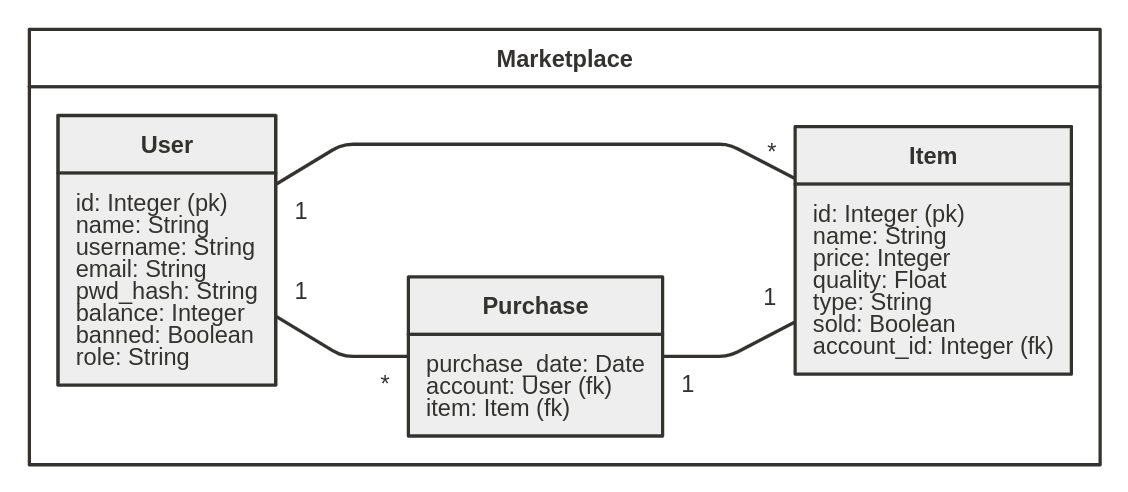
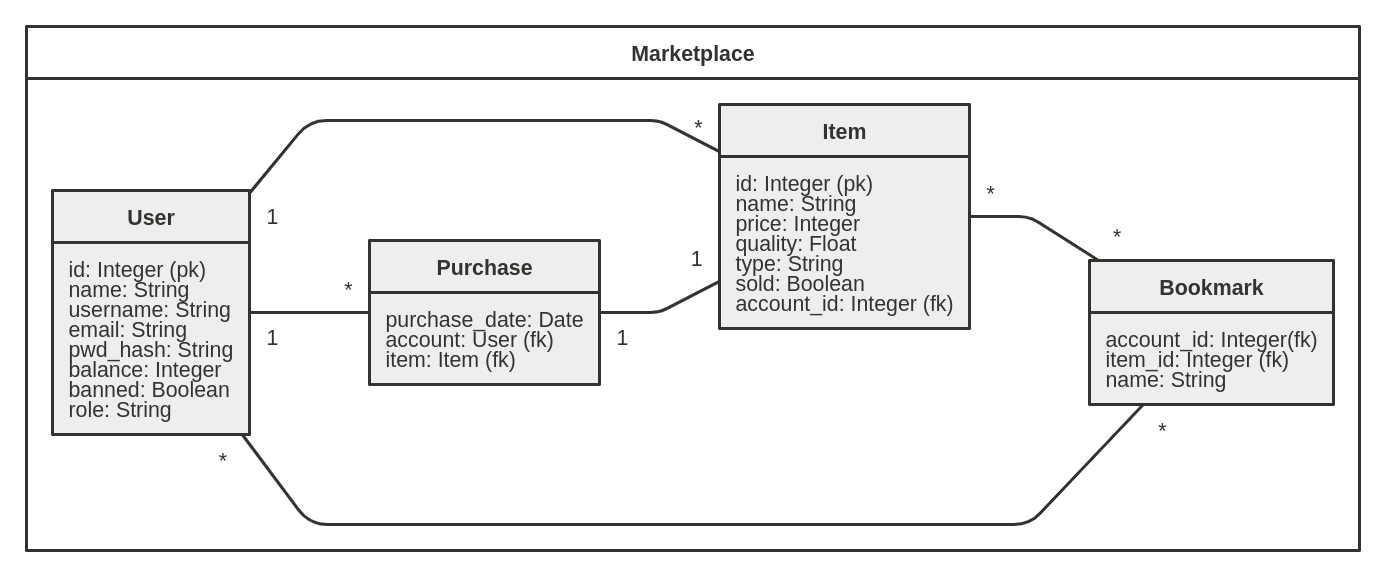
update documentation

Changed region(s): [[0.0, 0.0305, 0.9929, 0.9756], [0.8067, 0.3049, 0.8688, 0.3354], [0.7447, 0.8232, 0.7757, 0.8841]]

diff --git a/documentation/documentation.md b/documentation/documentation.md
@@ -12,6 +12,9 @@ A registered user can:
 > * buy items
 > * modify the price of users own products that are on sale
 > * add balance to account
+> * bookmark items
+> * remove bookmarks
+> * name bookmarks
 
 ## Database diagram
 ![diagram](images/diagram2.png)
@@ -19,40 +22,68 @@ A registered user can:
 ## CREATE TABLE:
 ### Item:
 ```sql
-CREATE TABLE Item (
-    id INTEGER NOT NULL PRIMARY KEY,
-    name VARCHAR(144),
-    price INTEGER,
-    quality FLOAT,
-    item_type VARCHAR(144),
-    sold BOOLEAN,
-    account_id INTEGER,
-    FOREIGN KEY (account_id) REFERENCES Account(account_id)
+CREATE TABLE item (
+        id INTEGER NOT NULL, 
+        date_created DATETIME, 
+        date_modified DATETIME, 
+        name VARCHAR(144) NOT NULL, 
+        price INTEGER NOT NULL, 
+        quality FLOAT NOT NULL, 
+        item_type VARCHAR(144) NOT NULL, 
+        sold BOOLEAN NOT NULL, 
+        account_id INTEGER NOT NULL, 
+        PRIMARY KEY (id), 
+        CHECK (sold IN (0, 1)), 
+        FOREIGN KEY(account_id) REFERENCES account (id)
 );
 ```
-Item has a column sold, because every item is purchased only once and it would be unnecessary to go through all purchases when displaying an item
+* Item has a column sold, because every item is purchased only once and it would be unnecessary to go through all purchases when displaying an item
+
+* Items type column is indexed so searching items by name and type will be significantly faster
 
 ### Account:
 ```sql
-CREATE TABLE Account (
-    id INTEGER NOT NULL PRIMARY KEY,
-    name VARCHAR(144),
-    username VARCHAR(144),
-    email VARCHAR(144),
-    pwd_hash VARCHAR(144),
-    balance INTEGER,
-    banned BOOLEAN,
-    role VARCHAR(144)
+CREATE TABLE account (
+        id INTEGER NOT NULL, 
+        date_created DATETIME, 
+        date_modified DATETIME, 
+        name VARCHAR(144) NOT NULL, 
+        username VARCHAR(144) NOT NULL, 
+        email VARCHAR(144) NOT NULL, 
+        pwd_hash VARCHAR(144) NOT NULL, 
+        balance INTEGER NOT NULL, 
+        banned BOOLEAN NOT NULL, 
+        role VARCHAR(144) NOT NULL, 
+        PRIMARY KEY (id), 
+        CHECK (banned IN (0, 1))
 );
 ```
 
 ### Purchase:
 ```sql
-CREATE TABLE Purchase (
-    item_id INTEGER,
-    account_id INTEGER,
-    FOREIGN KEY (item_id) REFERENCES Item(item_id),
-    FOREIGN KEY (account_id) REFERENCES Account(account_id)
+CREATE TABLE purchase (
+        id INTEGER NOT NULL, 
+        date_created DATETIME, 
+        date_modified DATETIME, 
+        account_id INTEGER NOT NULL, 
+        item_id INTEGER NOT NULL, 
+        PRIMARY KEY (id), 
+        FOREIGN KEY(account_id) REFERENCES account (id), 
+        FOREIGN KEY(item_id) REFERENCES item (id)
+);
+```
+
+### Bookmark:
+```sql
+CREATE TABLE bookmark (
+        date_created DATETIME, 
+        date_modified DATETIME, 
+        name VARCHAR(144), 
+        item_id INTEGER NOT NULL, 
+        account_id INTEGER NOT NULL, 
+        PRIMARY KEY (item_id, account_id), 
+        FOREIGN KEY(item_id) REFERENCES item (id), 
+        FOREIGN KEY(account_id) REFERENCES account (id)
 );
 ```
 
@@ -81,6 +112,11 @@ Buy items:
 INSERT INTO Purchase(account_id, item_id) VALUES(?,?);
 ```
 
+Delete items:
+```sql
+DELETE FROM Item WHERE Item.id = ?
+```
+
 Add balance to account:
 ```sql
 UPDATE Account
@@ -93,4 +129,21 @@ Modify items:
 UPDATE Item
     SET name="newname", price=12345, quality=0.345, item_type="Legendary", sold=FALSE
     WHERE Item.id = 1;
+```
+
+Bookmark items:
+```sql
+INSERT INTO Bookmark(account_id, item_id, name) VALUES(?, ?, "Best bookmark");
+```
+
+Update bookmark:
+```sql
+UPDATE Bookmark
+    SET name="new name"
+    WHERE Bookmark.account_id = ? AND Bookmark.item_id = ?;
+```
+
+Delete bookmark:
+```sql
+DELETE FROM Bookmark WHERE Bookmark.account_id = ? AND Bookmark.item_id = ?;
 ```
